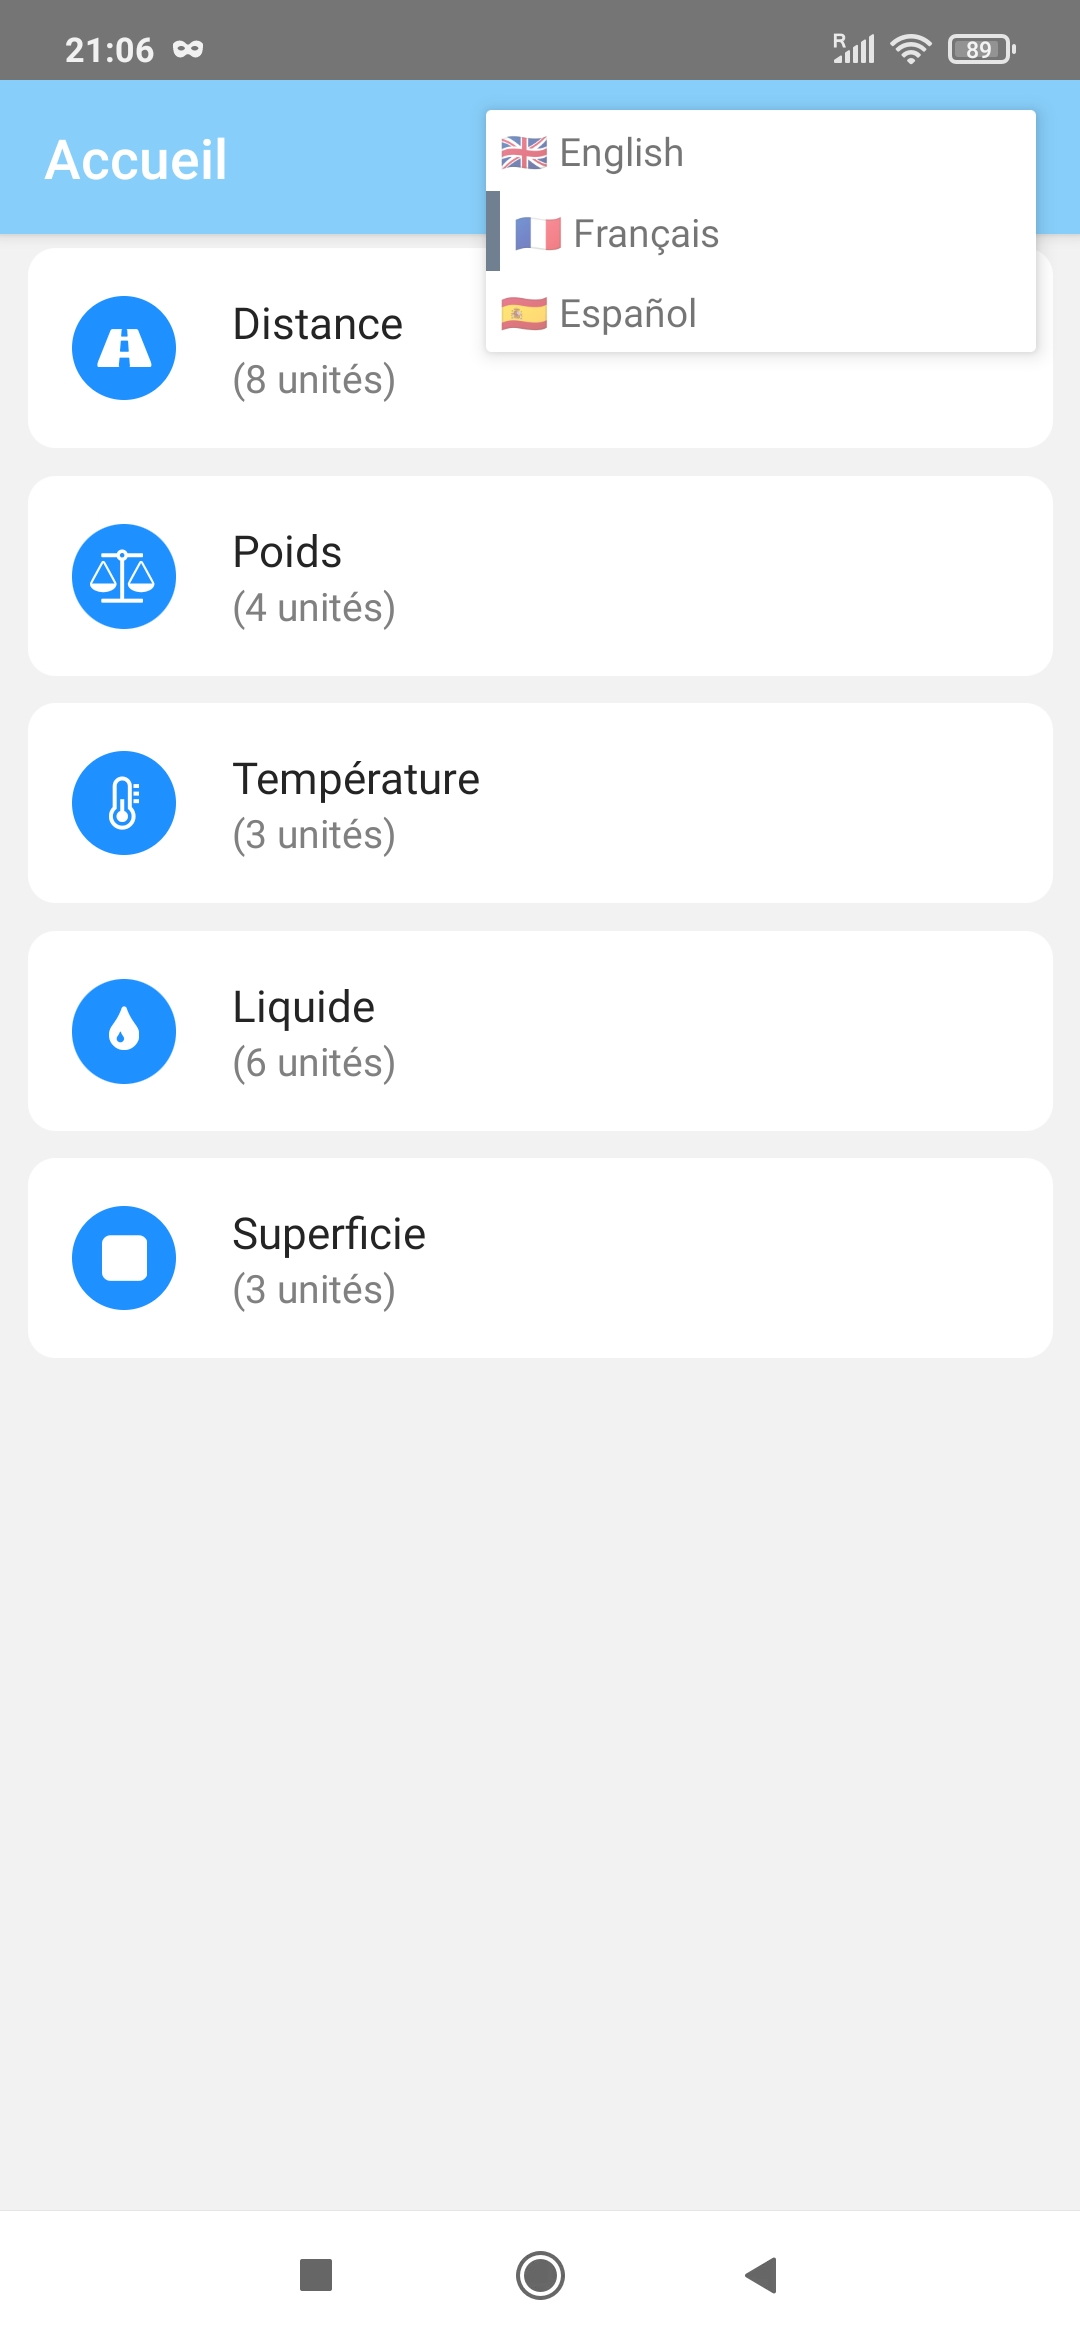
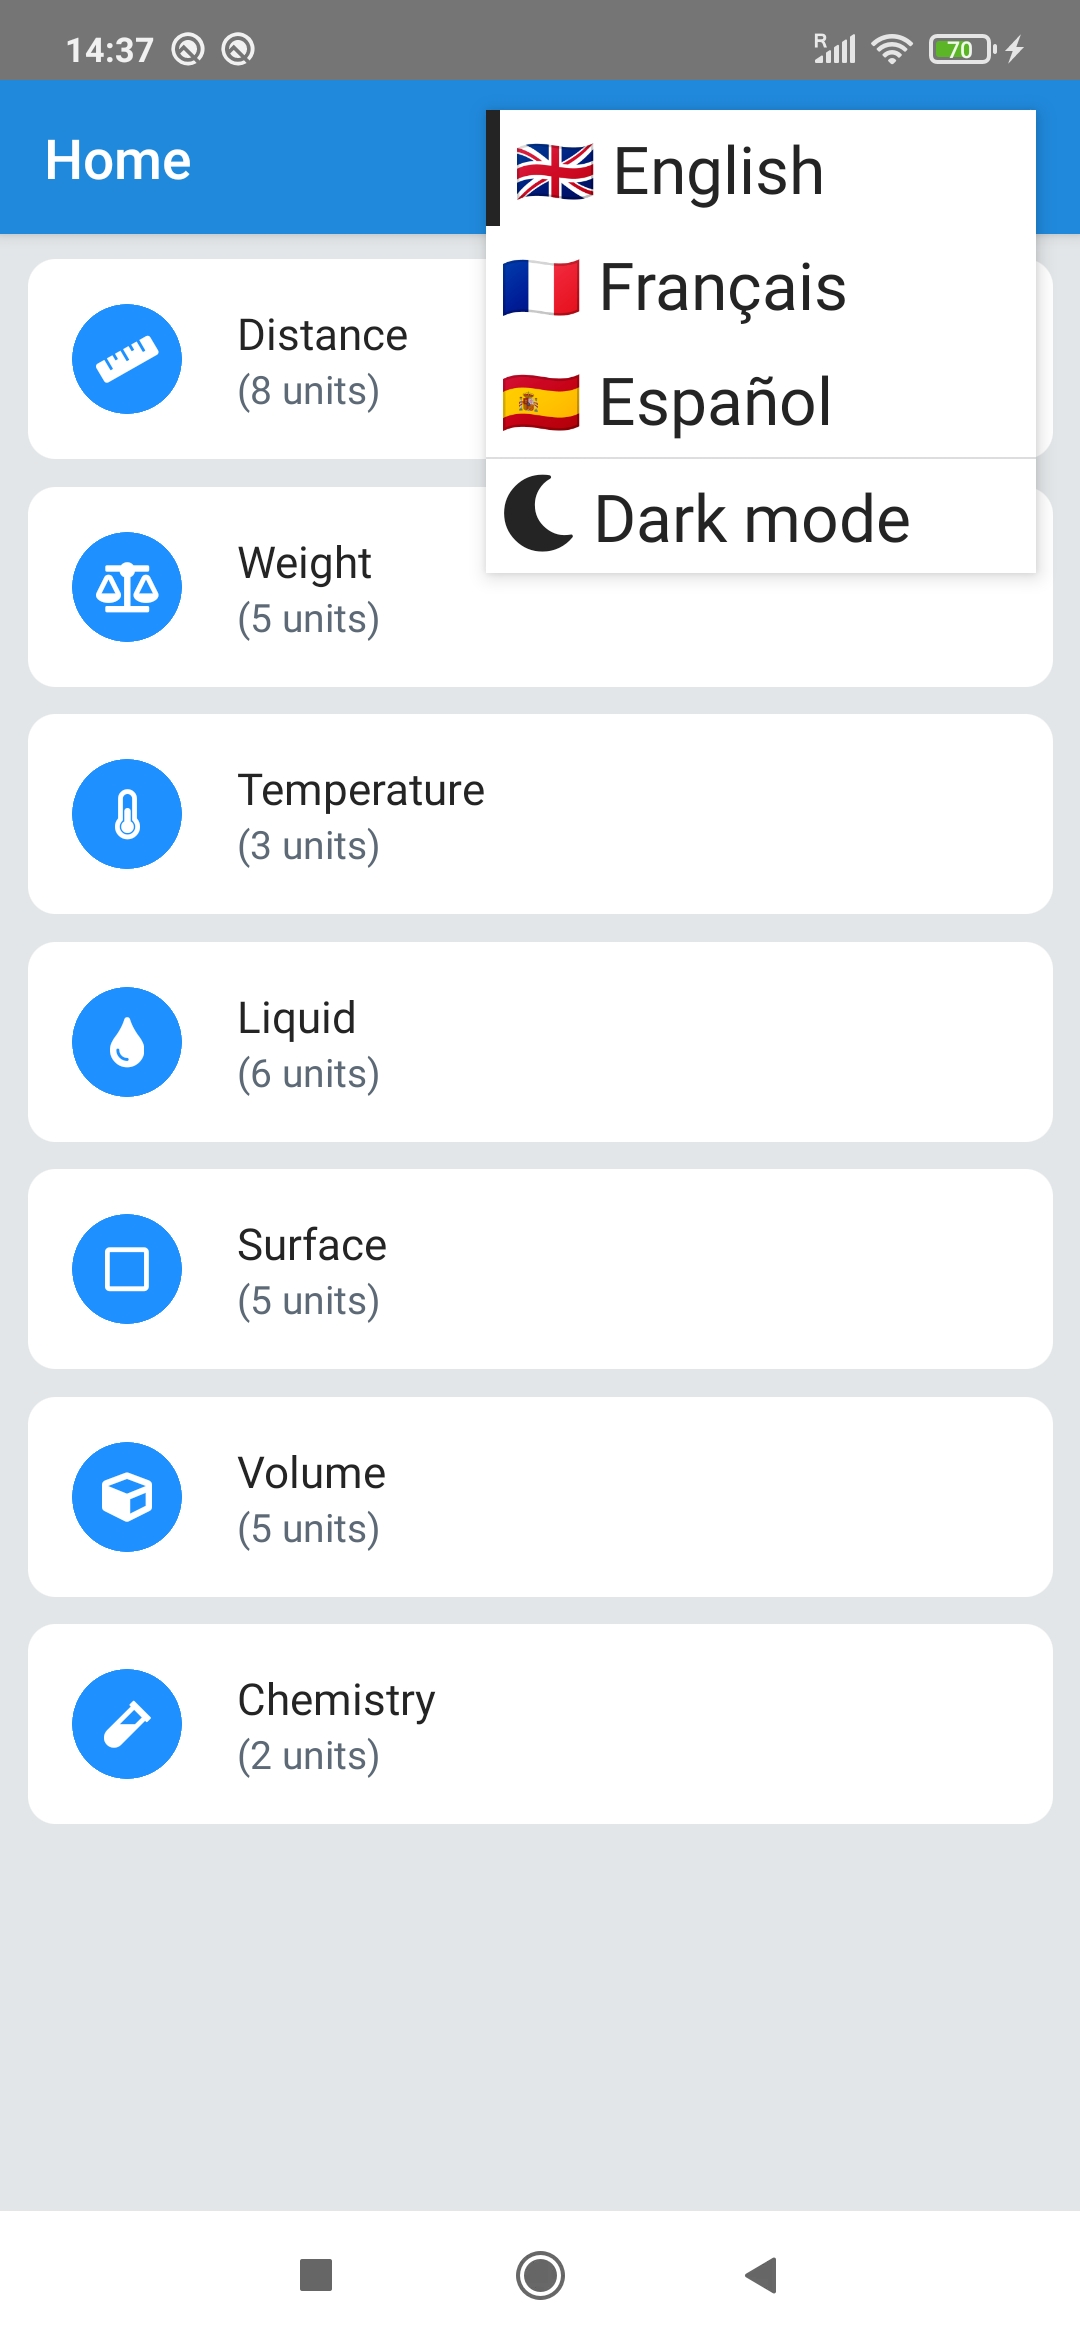
update screenshot

diff --git a/README.md b/README.md
@@ -7,9 +7,10 @@ Available languages : 🇬🇧, 🇫🇷, 🇪🇸
 [<img src="https://fdroid.gitlab.io/artwork/badge/get-it-on.png" height="75">](https://f-droid.org/packages/com.unitstool/)
 
 <div style="display: flex; flex-direction: row; justify-content: space-between;">
-    <img alt="home" src="screenshot/home.png" style="width: 30%; height: 30%;"/>
-    <img alt="languages" src="screenshot/languages.png" style="width: 30%; height: 30%;"/>
-    <img alt="temperature" src="screenshot/temperature.png" style="width: 30%; height: 30%;"/>
+    <img alt="home" src="screenshot/home.png" style="width: 25%; height: 25%;"/>
+    <img alt="languages" src="screenshot/languages.png" style="width: 25%; height: 25%;"/>
+    <img alt="temperature" src="screenshot/category.png" style="width: 25%; height: 25%;"/>
+    <img alt="temperature" src="screenshot/darkmode.png" style="width: 25%; height: 25%;"/>
 </div>
 
 ## Privacy
